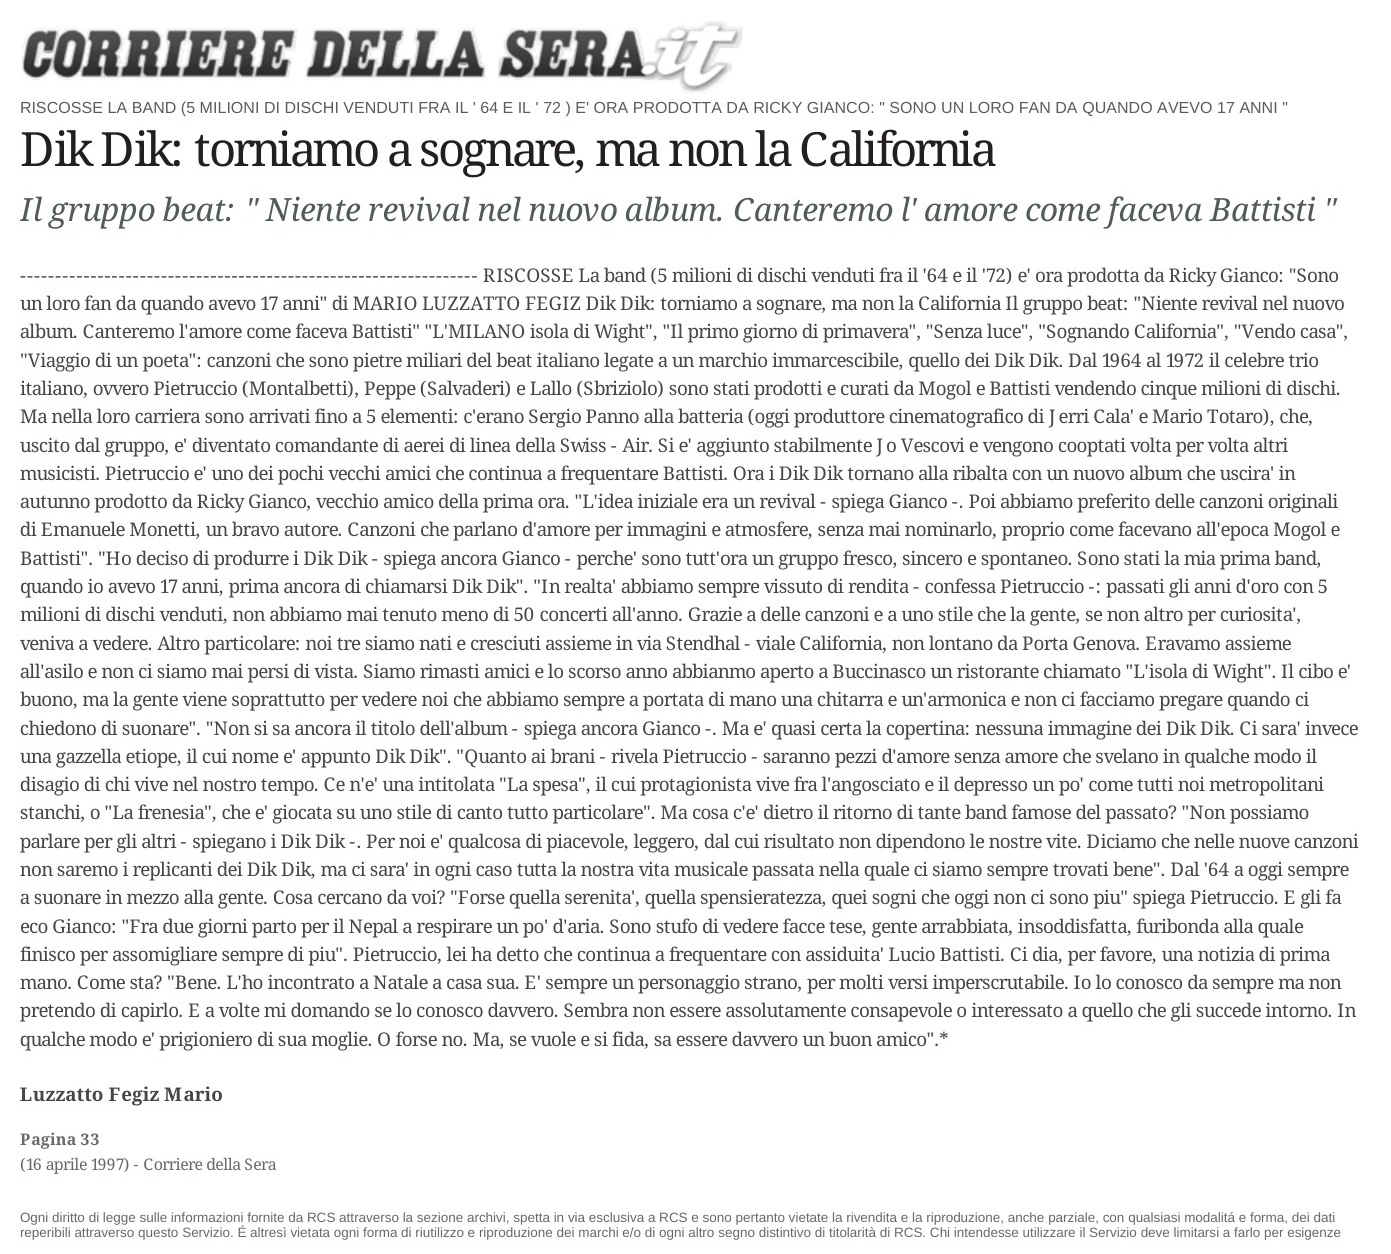
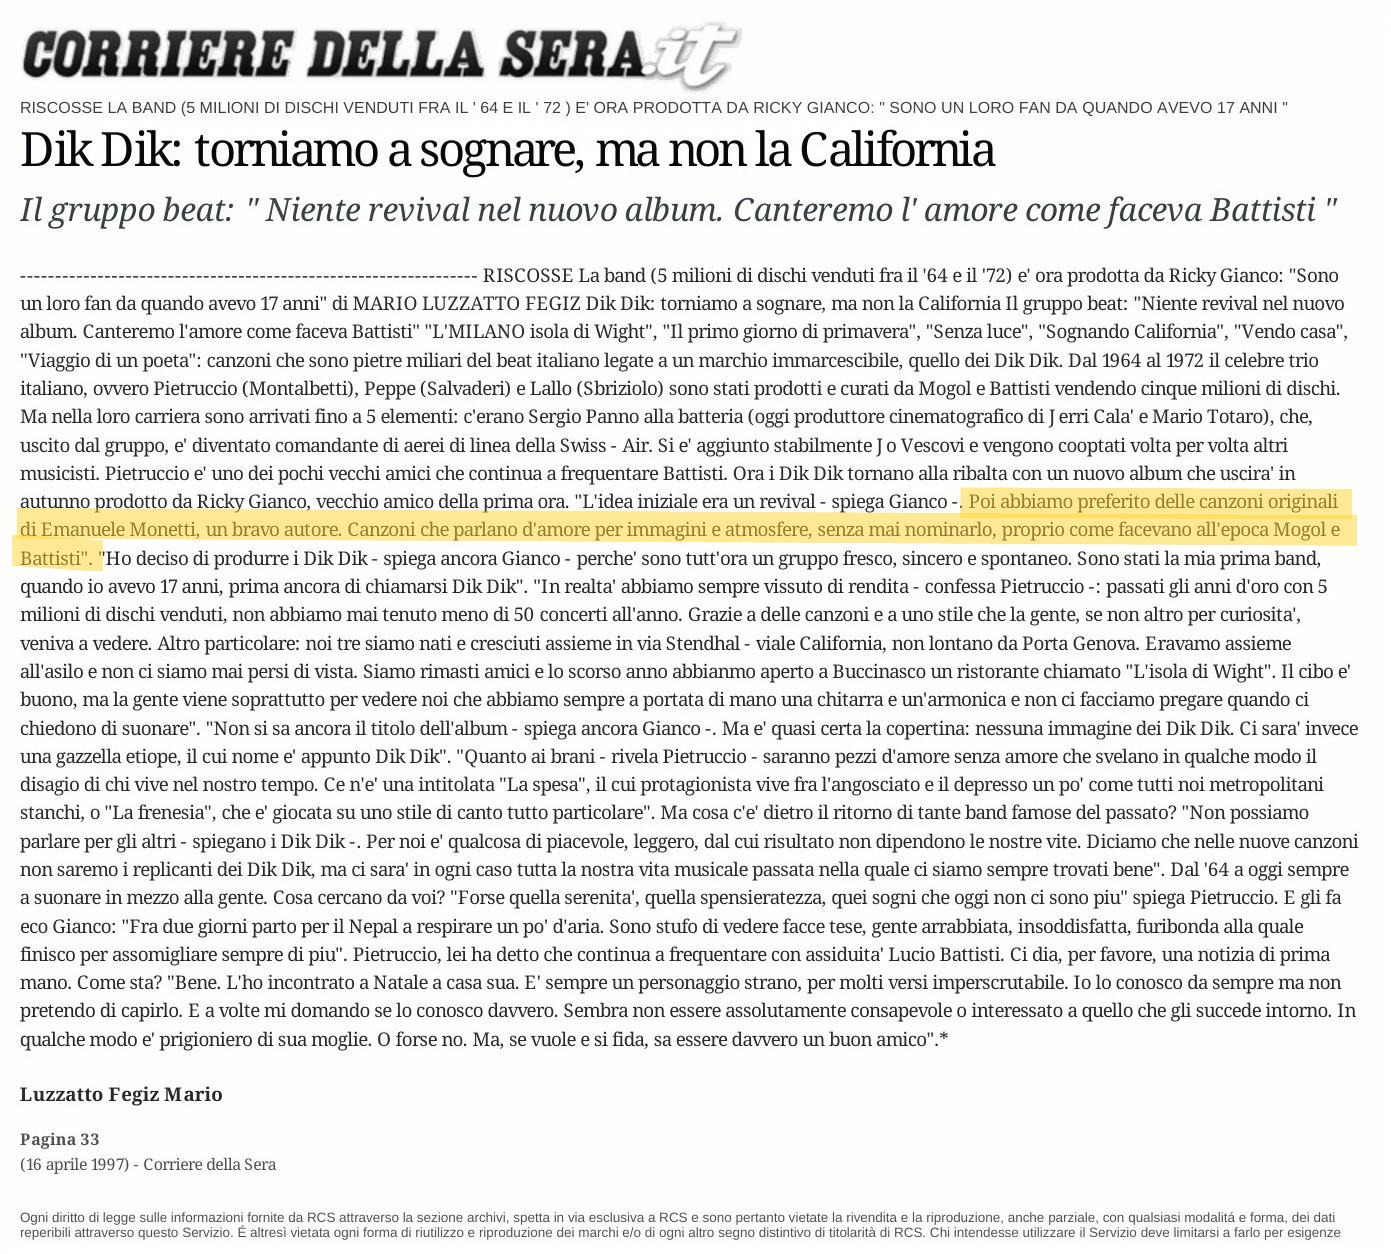
modifiche varie come richiesto da Emanuele, principalmente per migliorare la resa grafica del titolo e del testo sovrapposti all'immagine di Giada, e per aggiungere la sezione "Collaborazioni" alla navbar.

diff --git a/src/components/PressArticle.jsx b/src/components/PressArticle.jsx
@@ -4,78 +4,86 @@ import pressThumb from "../assets/press/dikdik-article-thumb.jpg";
 import pressFull from "../assets/press/dikdik-article-full.jpg";
 
 export default function PressArticle() {
-
   const [open, setOpen] = useState(false);
 
   return (
-    <section className="max-w-6xl mx-auto px-8 md:px-14 lg:px-20 py-24">
+    <section
+      id="collaborations"
+      className="max-w-[1400px] mx-auto px-8 md:px-14 lg:px-20 py-24 md:py-28"
+    >
+      {/* intestazione sezione */}
+      <div className="mb-14 md:mb-16">
+        <p className="text-[12px] uppercase tracking-[0.42em] text-gray-500 mb-4">
+          Collaborazioni
+        </p>
 
-      {/* titolo sezione */}
-      <p className="text-[11px] uppercase tracking-[0.38em] text-gray-500 mb-4">
-        Rassegna stampa
-      </p>
+        <h2 className="font-serif italic text-gray-900 leading-none text-5xl md:text-6xl">
+          Corriere della Sera
+        </h2>
 
-      <h2 className="text-4xl md:text-5xl font-serif italic text-gray-900 mb-3">
-        Corriere della Sera
-      </h2>
-
-      <div className="w-20 h-px bg-artist mb-10" />
-
-      {/* contenuto */}
-      <div className="grid md:grid-cols-[260px_1fr] gap-12 items-start">
-
-        {/* immagine preview */}
-        <img
-          src={pressThumb}
-          alt="Anteprima articolo Corriere della Sera"
-          className="rounded-xl shadow-md border border-gray-200 hover:scale-[1.03] transition"
-        />
-
-        {/* testo */}
-        <div>
-
-          <p className="font-serif text-lg text-gray-700 leading-8 max-w-xl">
-            Un articolo del <strong>Corriere della Sera</strong> cita le canzoni di
-            <strong> Emanuele Monetti</strong> tra i nuovi brani realizzati per i
-            Dik Dik nel progetto prodotto da Ricky Gianco.
-          </p>
-
-          {/* pulsante */}
-          <button
-            onClick={() => setOpen(true)}
-            className="mt-8 border border-gray-300 px-6 py-2 rounded-full text-[11px] uppercase tracking-widest hover:bg-black hover:text-white transition"
-          >
-            Leggi
-          </button>
-
-        </div>
-
+        <div className="w-24 h-[2px] bg-artist mt-5" />
       </div>
 
-      {/* MODAL ARTICOLO */}
-      {open && (
-        <div className="fixed inset-0 z-50 flex items-center justify-center bg-black/70 backdrop-blur-sm px-4">
+      {/* contenuto */}
+      <div className="grid lg:grid-cols-[1.05fr_0.95fr] gap-12 lg:gap-16 items-center">
+        {/* immagine articolo */}
+        <div
+          onClick={() => setOpen(true)}
+          className="group cursor-pointer overflow-hidden rounded-2xl bg-white p-4 w-full max-w-[500px] aspect-[4/5] shadow-[0_30px_80px_rgba(0,0,0,0.15)] transition-all duration-500 hover:shadow-[0_40px_100px_rgba(0,0,0,0.22)] hover:-translate-y-1"
+        >
+          <img
+            src={pressThumb}
+            alt="Anteprima articolo Corriere della Sera"
+            className="w-full h-full object-contain transition duration-700 group-hover:scale-[1.02]"
+          />
+        </div>
 
-          {/* chiudi */}
+        {/* testo */}
+        <div className="max-w-[520px]">
+          <p className="font-serif text-lg md:text-[1.45rem] text-gray-800 leading-[1.9]">
+            Un articolo del <strong>Corriere della Sera</strong> cita le canzoni di
+            <strong> Emanuele Monetti</strong> tra i nuovi brani realizzati per i
+            Dik Dik, all’interno di un progetto prodotto da Ricky Gianco.
+          </p>
+
           <button
-            onClick={() => setOpen(false)}
-            className="absolute top-6 right-8 text-white text-4xl leading-none hover:opacity-70 transition"
+            onClick={() => setOpen(true)}
+            className="group mt-10 inline-flex items-center gap-3 rounded-full border border-gray-300 bg-transparent px-7 py-3 text-[12px] font-medium uppercase tracking-[0.24em] text-gray-900 transition-all duration-300 hover:border-gray-900 hover:bg-gray-900 hover:text-white hover:shadow-[0_10px_24px_rgba(0,0,0,0.12)]"
           >
-            ×
+            Leggi articolo
+            <span className="transition-transform duration-300 group-hover:translate-x-1">
+              →
+            </span>
           </button>
+        </div>
+      </div>
 
-          {/* articolo */}
-          <div className="max-h-[90vh] overflow-auto rounded-2xl shadow-2xl">
+      {/* modal articolo */}
+      {open && (
+        <div
+          className="fixed inset-0 z-50 flex items-center justify-center bg-black/80 backdrop-blur-md px-4 py-6"
+          onClick={() => setOpen(false)}
+        >
+          <div
+            className="relative max-h-[92vh] max-w-[1100px] overflow-auto rounded-2xl shadow-2xl"
+            onClick={(e) => e.stopPropagation()}
+          >
             <img
               src={pressFull}
-              alt="Articolo Corriere della Sera"
+              alt="Articolo completo Corriere della Sera"
               className="w-full h-auto"
             />
-          </div>
 
+            <button
+              onClick={() => setOpen(false)}
+              className="absolute top-4 right-5 flex h-11 w-11 items-center justify-center rounded-full bg-black/55 text-white text-2xl leading-none backdrop-blur-sm transition hover:bg-black/75"
+              aria-label="Chiudi articolo"
+            >
+              ×
+            </button>
+          </div>
         </div>
       )}
-
     </section>
   );
 }

diff --git a/src/sections/HeroGallery.jsx b/src/sections/HeroGallery.jsx
@@ -3,11 +3,11 @@ import { useEffect, useState } from "react";
 import piano from "../assets/piano.jpg";
 import canto from "../assets/canto.jpg";
 import giada from "../assets/covergiada.jpg";
+import giadaTitle from "../assets/Cover Giada_titolo.png";
 import tuttoegiadiverso from "../assets/tuttoegiadiverso.jpeg";
 import esse from "../assets/esse.jpeg";
 
 export default function HeroGallery() {
-
   const slides = [
     {
       title: "Giada",
@@ -15,6 +15,8 @@ export default function HeroGallery() {
         "Un brano intimo e delicato, sospeso tra memoria, emozione e cantautorato contemporaneo.",
       image: giada,
       label: "Ultima uscita",
+      overlayTitle: giadaTitle,
+      overlayText: 'Tratto dall’album “Tutto già diverso”',
     },
     {
       title: "",
@@ -45,30 +47,22 @@ export default function HeroGallery() {
   };
 
   useEffect(() => {
-
     const interval = setInterval(() => {
-
-      const newIndex =
-        current === slides.length - 1
-          ? 0
-          : current + 1;
-
+      const newIndex = current === slides.length - 1 ? 0 : current + 1;
       changeSlide(newIndex);
-
     }, 8000);
 
     return () => clearInterval(interval);
-
   }, [current]);
 
   const active = slides[current];
   const nextSlide = slides[next];
   const hasTextContent = active.label || active.title || active.subtitle;
+  const hasOverlayContent = active.overlayTitle || active.overlayText;
+
   return (
     <section className="relative pb-0">
-
       <div className="relative overflow-hidden h-screen">
-
         {/* immagine attuale */}
         <img
           src={active.image}
@@ -81,9 +75,7 @@ export default function HeroGallery() {
           src={nextSlide.image}
           alt=""
           className={`absolute inset-0 w-full h-full object-cover transition-all duration-[1200ms] ease-in-out ${
-            showNext
-              ? "opacity-100 scale-105"
-              : "opacity-0 scale-110"
+            showNext ? "opacity-100 scale-105" : "opacity-0 scale-110"
           }`}
         />
 
@@ -92,13 +84,23 @@ export default function HeroGallery() {
         <div className="absolute inset-0 bg-gradient-to-r from-black/55 via-black/20 to-transparent" />
         <div className="absolute inset-0 bg-gradient-to-t from-black/30 via-transparent to-black/10" />
 
+        {/* overlay grafico solo per Giada */}
+        {hasOverlayContent && (
+          <div className="absolute top-32 md:top-36 lg:top-40 right-10 md:right-16 lg:right-24">
+            {active.overlayTitle && (
+              <img
+                src={active.overlayTitle}
+                alt="Titolo Giada"
+                className="ml-auto w-[280px] md:w-[360px] lg:w-[420px] h-auto drop-shadow-[0_12px_40px_rgba(0,0,0,0.4)]"
+              />
+            )}
+          </div>
+        )}
+
         {/* contenuto */}
         <div className="relative z-10 flex h-full items-end pb-20">
-
           <div className="w-full px-8 md:px-14 lg:px-20 flex justify-start">
-
             <div className="max-w-3xl text-left">
-
               {active.label && (
                 <p className="text-[11px] uppercase tracking-[0.38em] text-white/70 mb-4">
                   {active.label}
@@ -106,29 +108,28 @@ export default function HeroGallery() {
               )}
 
               {hasTextContent && (
-                  <div className="w-20 h-px bg-artist mt-6 mb-6" />
-                )}
+                <div className="w-20 h-px bg-artist mt-6 mb-6" />
+              )}
 
               {active.title && (
                 <h1 className="font-serif italic text-white text-6xl md:text-7xl lg:text-8xl leading-none">
                   {active.title}
                 </h1>
+                )}
+              {active.overlayText && (
+                <p className="mt-3 text-white/55 text-[11px] uppercase tracking-[0.38em]">
+                  Tratto dall’album “Tutto già diverso”
+                </p>
               )}
-
               {active.subtitle && (
                 <p className="text-white/80 text-base md:text-lg leading-relaxed max-w-xl mt-4">
                   {active.subtitle}
                 </p>
               )}
-
             </div>
-
           </div>
-
         </div>
-
       </div>
-
     </section>
   );
 }

diff --git a/src/components/releases.jsx b/src/components/releases.jsx
@@ -11,16 +11,6 @@ import pressThumb from "../assets/press/dikdik-article-thumb.jpg";
 import pressFull from "../assets/press/dikdik-article-full.jpg";
 
 export const releases = [
-   {
-    date: "1997",
-    title: "Corriere della Sera",
-    subtitle: "Rassegna stampa",
-    image: pressThumb,
-    fullImage: pressFull,
-    type: "press",
-    description:
-      "Il Corriere della Sera cita le canzoni di Emanuele Monetti tra i nuovi brani realizzati per i Dik Dik."
-  },
   {
     date: "Aprile 2024",
     title: "Tutto è già diverso",

diff --git a/src/App.jsx b/src/App.jsx
@@ -13,7 +13,7 @@ export default function App() {
       <main>
         <HeroGallery />
         <Timeline />
-       
+        <PressArticle />
         {/* Sezione Biografia Veloce */}
         <section className="py-24 px-10 max-w-4xl mx-auto text-center">
           <h3 className="font-serif text-3xl mb-6 italic text-gray-800 font-medium">

diff --git a/src/components/Navbar.jsx b/src/components/Navbar.jsx
@@ -7,6 +7,7 @@ export default function Navbar() {
   const items = [
     { name: "Home", path: "/" },
     { name: "Discografia", path: "#timeline" },
+    { name: "Collaborazioni", path: "#collaborations" },
     { name: "Chi sono", path: "#about" },
     { name: "Contatti", path: "#contact" },
   ];
